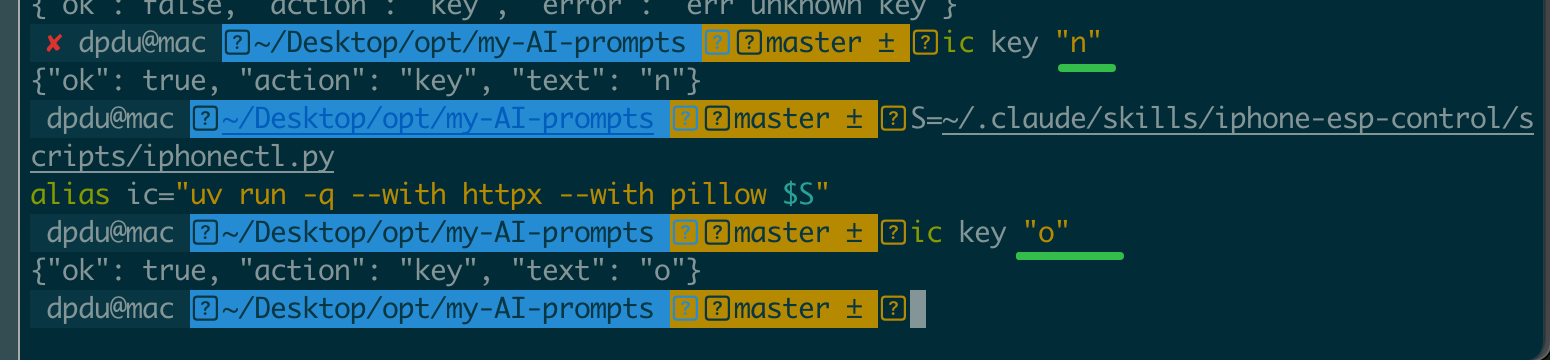
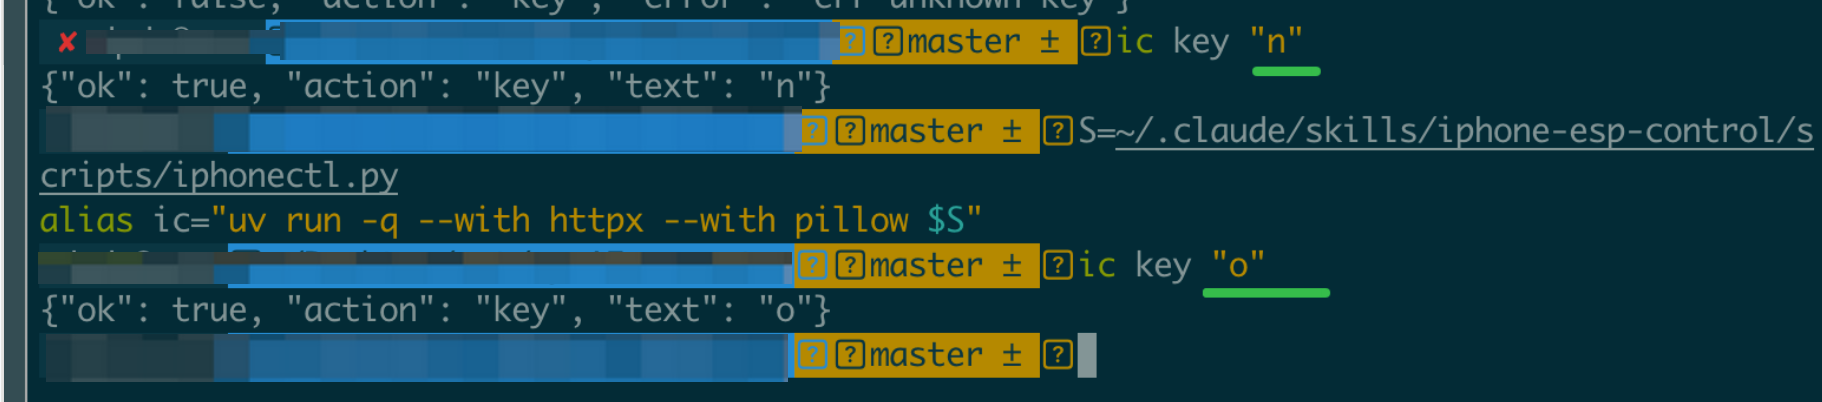
publish(content): release ESP32 iPhone article in Chinese and English

Changed region(s): [[0.0, 0.0, 1.0, 1.0]]

diff --git a/content/en/posts/penetration/esp32-iphone-ble-hid-agent.md b/content/en/posts/penetration/esp32-iphone-ble-hid-agent.md
@@ -4,7 +4,7 @@ slug: esp32-iphone-ble-hid-agent
 translationKey: esp32-iphone-ble-hid-agent
 url: /en/26/10/esp32-iphone-ble-hid-agent/
 date: 2026-10-31T12:20:00+08:00
-draft: true
+draft: false
 codeStyle: tokyonight-night
 pageStyle: knowledge-base
 tags:

diff --git a/content/zh/posts/penetration/esp32-iphone-ble-hid-agent.md b/content/zh/posts/penetration/esp32-iphone-ble-hid-agent.md
@@ -4,7 +4,7 @@ slug: esp32-iphone-ble-hid-agent
 translationKey: esp32-iphone-ble-hid-agent
 url: /26/10/esp32-iphone-ble-hid-agent/
 date: 2026-10-31T12:20:00+08:00
-draft: true
+draft: false
 codeStyle: tokyonight-night
 pageStyle: knowledge-base
 tags:
